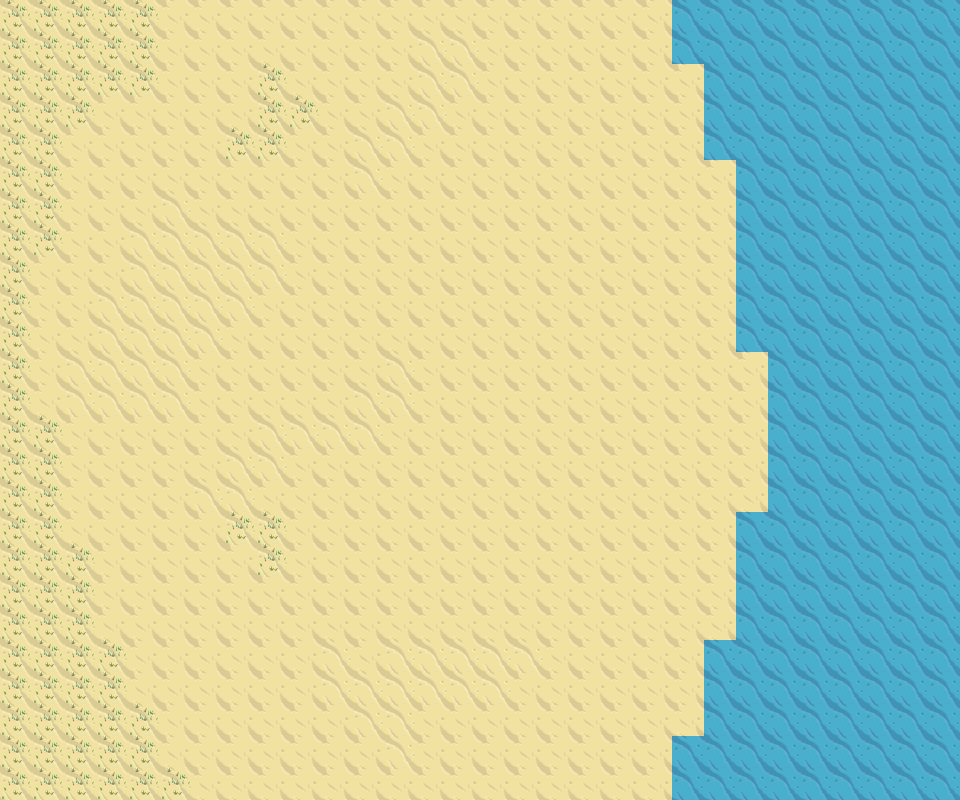
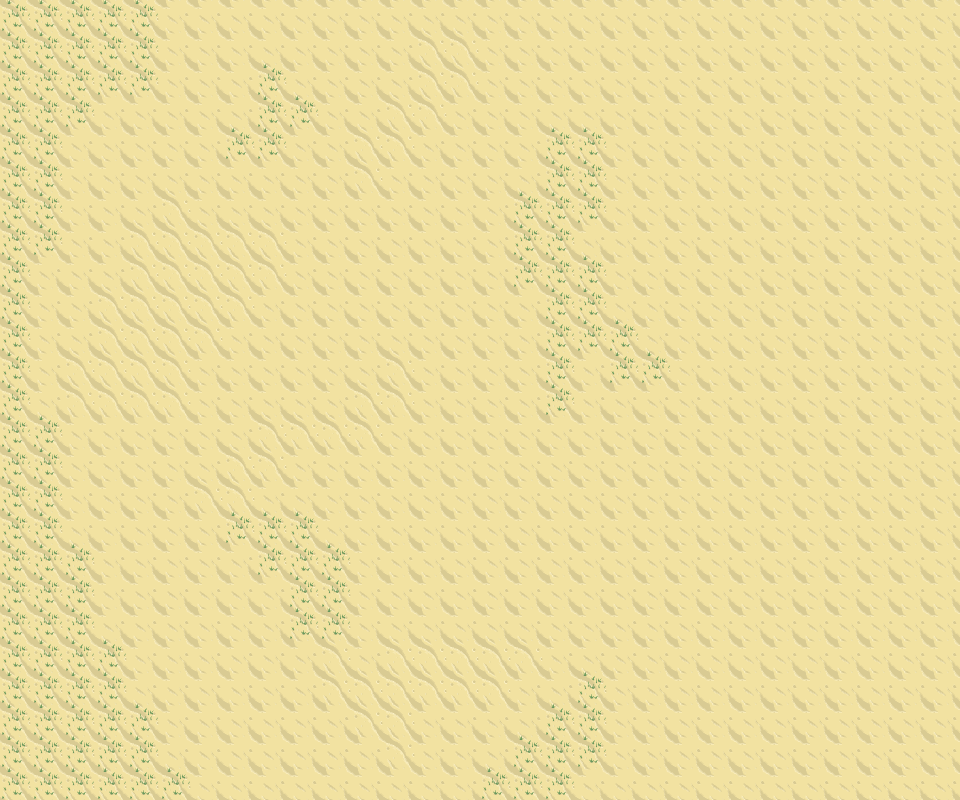
Added crab and bin collision. ALso the map is changed a little.

diff --git a/src/MVC/Model.java b/src/MVC/Model.java
@@ -564,6 +564,18 @@ public class Model implements java.io.Serializable {
 			crab.setDirection(Direction.SOUTHEAST);
 		}
 	}
+	
+	public void animalBinCollision() {
+		if(crab.getCollidesWith(rBin) || crab.getCollidesWith(tBin)) {
+			if(crab.getDirection() == Direction.NORTHEAST) {
+				crab.setDirection(Direction.SOUTHWEST);
+			}else if(crab.getDirection() == Direction.WEST || crab.getDirection() == Direction.SOUTH || crab.getDirection() == Direction.SOUTHEAST) {
+				crab.setDirection(Direction.NORTHEAST);
+			}else if(crab.getDirection() == Direction.SOUTHWEST || crab.getDirection() == Direction.NORTHWEST) {
+				crab.setDirection(Direction.SOUTHEAST);
+			}
+		}
+	}
 
 	public void updatingTutorialAnimalLocation() {
 		crab.setYLocation(crab.getYLocation() + 10);
@@ -959,6 +971,7 @@ public class Model implements java.io.Serializable {
 
 
 		animalWallCollision();
+		animalBinCollision();
 
 		Iterator<Litter> litterIterator = litterSet.iterator();
 		while (litterIterator.hasNext()) {

diff --git a/src/MVC/Sprite.java b/src/MVC/Sprite.java
@@ -85,7 +85,7 @@ public class Sprite {
 //=======
 //		DECAY_PLANT("MapObjects/dazal.png", 100, 100),
 		/** spot of dirt where plant resided*/	
-		DIRT("MapObjects/dirtPatch.png", 100, 100),
+		DIRT("MapObjects/spot.png", 100, 100),
 		/** spot of mud where plant resided*/	
 		MUD("MapObjects/mud.png", 100, 100),
 		/** A banana peel */
